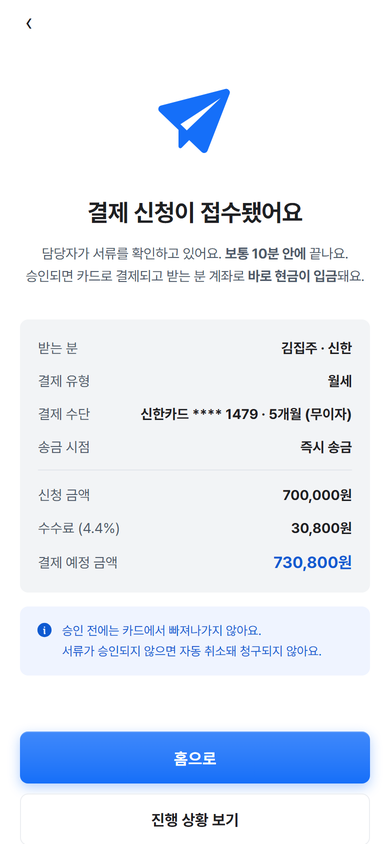
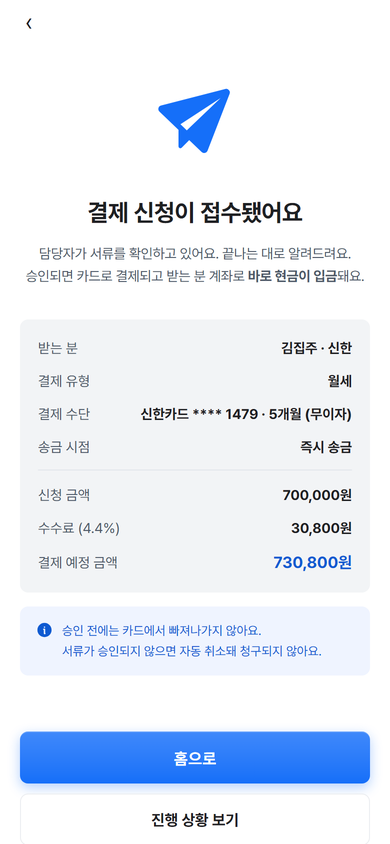
시간 표현 전체 검토 — 입금은 「평균 5~10분」으로 통일, 확정 안 된 「3분 · 10분 안에」 약속은 제거

Changed region(s): [[0.0923, 0.2773, 0.8923, 0.3081]]

diff --git a/화면/증빙.html b/화면/증빙.html
@@ -92,7 +92,7 @@
     <div class="done" id="완료">
       <div class="chk">✓</div>
       <b>신청이 접수됐어요</b>
-      <p>서류가 준비되면 문자와 메일로 보내드려요.<br>보통 10분 안에 도착합니다.</p>
+      <p>서류가 준비되면 문자와 메일로 보내드려요.<br>준비되는 대로 바로 보내드려요.</p>
       <button type="button" class="gobtn" onclick="history.length>1?history.back():location.href='../app.html'">확인</button>
     </div>
   </div>
@@ -102,7 +102,7 @@
 (function () {
   var 종류들 = {
     '세액공제': {
-      안내: '<h4>어떤 서류인가요</h4><p>연말정산 때 월세 세액공제를 받기 위한 <b>납입 증명서</b>예요. 랜선페이로 낸 월세가 기간별로 정리되어 나옵니다.</p><h4>누가 받을 수 있나요</h4><ol><li><span class="n">1</span><span>총급여 8,000만원 이하의 <b>무주택 세대주</b> (세입자 본인)</span></li><li><span class="n">2</span><span>전용면적 85㎡ 이하 또는 기준시가 4억원 이하 주택 거주</span></li><li><span class="n">3</span><span>계약서 주소와 주민등록상 주소가 같은 경우</span></li></ol><h4>이렇게 쓰세요</h4><ol><li><span class="n">1</span><span>발급 신청하면 보통 10분 안에 메일 · 문자로 도착해요</span></li><li><span class="n">2</span><span>회사 연말정산 서류로 내거나 홈택스에 첨부하면 끝</span></li><li><span class="n">3</span><span>총급여 5,500만원 이하 <b>17%</b> · 8,000만원 이하 <b>15%</b> 공제</span></li></ol><div class="warn"><b>유의사항</b><br>공제 요건과 한도는 세법 개정에 따라 달라질 수 있어요. 본인이 요건에 맞는지는 홈택스나 세무 전문가에게 확인하는 것이 정확합니다.</div>',
+      안내: '<h4>어떤 서류인가요</h4><p>연말정산 때 월세 세액공제를 받기 위한 <b>납입 증명서</b>예요. 랜선페이로 낸 월세가 기간별로 정리되어 나옵니다.</p><h4>누가 받을 수 있나요</h4><ol><li><span class="n">1</span><span>총급여 8,000만원 이하의 <b>무주택 세대주</b> (세입자 본인)</span></li><li><span class="n">2</span><span>전용면적 85㎡ 이하 또는 기준시가 4억원 이하 주택 거주</span></li><li><span class="n">3</span><span>계약서 주소와 주민등록상 주소가 같은 경우</span></li></ol><h4>이렇게 쓰세요</h4><ol><li><span class="n">1</span><span>발급 신청하면 준비되는 대로 메일 · 문자로 도착해요</span></li><li><span class="n">2</span><span>회사 연말정산 서류로 내거나 홈택스에 첨부하면 끝</span></li><li><span class="n">3</span><span>총급여 5,500만원 이하 <b>17%</b> · 8,000만원 이하 <b>15%</b> 공제</span></li></ol><div class="warn"><b>유의사항</b><br>공제 요건과 한도는 세법 개정에 따라 달라질 수 있어요. 본인이 요건에 맞는지는 홈택스나 세무 전문가에게 확인하는 것이 정확합니다.</div>',
       제목: '월세 세액공제 증빙 발급',
       설명: '<span class="who">직장인 · 세입자용</span>연말정산 <b>월세 세액공제</b>에 쓰는 서류예요. 회사나 홈택스에 그대로 제출하면 총급여에 따라 월세의 최대 17%를 돌려받습니다.<span class="get">받는 서류 — 월세 납입 증명서 (PDF)</span>',
       칸: [
@@ -112,7 +112,7 @@
       ]
     },
     '입금확인서': {
-      안내: '<h4>어떤 서류인가요</h4><p>랜선페이가 <b>받는 분 계좌로 입금을 완료했다는 확인서</b>예요. 입금일 · 금액 · 받는 분 정보가 표기됩니다.</p><h4>이런 때 쓰세요</h4><ol><li><span class="n">1</span><span>집주인이 <b>입금 확인</b>을 요청할 때</span></li><li><span class="n">2</span><span>거래처에 <b>지급 증빙</b>을 보내야 할 때</span></li><li><span class="n">3</span><span>분쟁에 대비해 기록을 남겨두고 싶을 때</span></li></ol><h4>이렇게 발급돼요</h4><ol><li><span class="n">1</span><span>대상 내역을 고르고 신청하면 보통 10분 안에 도착해요</span></li><li><span class="n">2</span><span>메일 또는 문자로 PDF 파일을 받아요</span></li></ol><div class="warn"><b>유의사항</b><br>입금 사실을 증명하는 서류이고 세금 증빙(세금계산서 · 현금영수증)을 대신하지는 않아요. 세금 처리용은 다른 탭을 이용하세요.</div>',
+      안내: '<h4>어떤 서류인가요</h4><p>랜선페이가 <b>받는 분 계좌로 입금을 완료했다는 확인서</b>예요. 입금일 · 금액 · 받는 분 정보가 표기됩니다.</p><h4>이런 때 쓰세요</h4><ol><li><span class="n">1</span><span>집주인이 <b>입금 확인</b>을 요청할 때</span></li><li><span class="n">2</span><span>거래처에 <b>지급 증빙</b>을 보내야 할 때</span></li><li><span class="n">3</span><span>분쟁에 대비해 기록을 남겨두고 싶을 때</span></li></ol><h4>이렇게 발급돼요</h4><ol><li><span class="n">1</span><span>대상 내역을 고르고 신청하면 준비되는 대로 도착해요</span></li><li><span class="n">2</span><span>메일 또는 문자로 PDF 파일을 받아요</span></li></ol><div class="warn"><b>유의사항</b><br>입금 사실을 증명하는 서류이고 세금 증빙(세금계산서 · 현금영수증)을 대신하지는 않아요. 세금 처리용은 다른 탭을 이용하세요.</div>',
       제목: '무통장 입금 확인서 발급',
       설명: '<span class="who">모든 회원용</span>송금이 <b>받는 분 계좌에 입금됐다는 확인서</b>예요. 집주인 · 거래처에 입금 증빙이 필요할 때 쓰면 됩니다.<span class="get">받는 서류 — 무통장 입금 확인서 (PDF)</span>',
       칸: [

diff --git a/index.html b/index.html
@@ -1610,7 +1610,7 @@
           </li>
           <li class="tstep" data-shot="img/guide_shots/reg4.png?v=1" role="button" tabindex="0">
             <span class="tno">2</span>
-            <div class="tbd"><h3>서류 검토</h3><p>임대차계약서 같은 증빙 서류를 올리면 <br>연중무휴로 검토해 보통 10분 안에 알려드려요</p></div>
+            <div class="tbd"><h3>서류 검토</h3><p>임대차계약서 같은 증빙 서류를 올리면 <br>연중무휴로 검토해 결과를 바로 알려드려요</p></div>
           </li>
           <li class="tstep" data-shot="img/guide_shots/reg3.png?v=1" role="button" tabindex="0">
             <span class="tno">3</span>
@@ -1618,7 +1618,7 @@
           </li>
           <li class="tstep" data-shot="img/guide_shots/done.png?v=1" role="button" tabindex="0">
             <span class="tno">4</span>
-            <div class="tbd"><h3>송금 확인</h3><p>결제가 확인되면 평균 5분 안에 입금되고 <br>내역은 마이페이지에서 바로 볼 수 있어요</p></div>
+            <div class="tbd"><h3>송금 확인</h3><p>결제가 확인되면 평균 5~10분 안에 입금되고 <br>내역은 마이페이지에서 바로 볼 수 있어요</p></div>
           </li>
         </ol>
       </div>
@@ -1743,7 +1743,7 @@
           <p class="d">결제 대금은 <b>지정 계좌로만</b> 송금됩니다<br>대출이 아닌 <b>정식 결제 서비스</b>예요</p>
         </div>
         <img class="simg" src="img/status3d-blue.png?v=1"
-          alt="결제 현황 — 누적 이용자 42,000명+ · 총 송금 건수 16,800건+ · 평균 입금 시간 5분 · 정식 PG">
+          alt="결제 현황 — 누적 이용자 42,000명+ · 총 송금 건수 16,800건+ · 평균 입금 시간 5~10분 · 정식 PG">
       </div>
 
       <div class="srows">

diff --git a/화면/안내.html b/화면/안내.html
@@ -461,11 +461,11 @@
             <h3>송금 완료</h3>
           </div>
             <ol class="oa">
-              <li>접수되면 <b>연중무휴 검토</b>가 시작되고 보통 10분 안에 결과를 알려드려요</li>
+              <li>접수되면 <b>연중무휴 검토</b>가 시작되고 끝나는 대로 결과를 알려드려요</li>
             </ol>
           <div class="phone pa shot"><img class="mk-shot" src="../img/guide_shots/done.png" alt=""></div>
             <ol class="ob" style="counter-reset:s 1">
-              <li>승인되면 카드로 결제되고 <b>평균 5분 안에</b> 받는 분 계좌로 현금이 입금돼요</li>
+              <li>승인되면 카드로 결제되고 <b>평균 5~10분 안에</b> 받는 분 계좌로 현금이 입금돼요</li>
               <li>진행 상태는 <b>전체메뉴 → 결제 내역</b>에서 언제든 확인할 수 있어요</li>
             </ol>
           <div class="phone pb">
@@ -496,7 +496,7 @@
 
     <div class="gofin">
       <b>이제 직접 결제해볼까요?</b>
-      <p>카드 한 장이면 3분 안에 끝나요</p>
+      <p>카드 한 장이면 바로 끝나요</p>
     </div>
     <a class="gocta" href="10_1_유형선택.html"><img src="../img/logo3-white.png" alt="">지금 시작하기</a>
   </div>

diff --git a/화면/질문.html b/화면/질문.html
@@ -92,7 +92,7 @@
       <div class="gh">송금 안내</div>
       <div class="acc">
         <details data-cat="송금"><summary><span class="q">Q.</span><span class="t">송금은 얼마나 걸리나요?</span><iconify-icon class="arw" icon="mingcute:down-line"></iconify-icon></summary>
-          <div class="a">서류 승인 후 결제하면 <b>평균 5분</b> 안에 입금됩니다. 예약 송금을 걸어 두면 정한 날짜에 자동으로 나갑니다.</div></details>
+          <div class="a">서류 승인 후 결제하면 <b>평균 5~10분</b> 안에 입금됩니다. 예약 송금을 걸어 두면 정한 날짜에 자동으로 나갑니다.</div></details>
         <details data-cat="송금"><summary><span class="q">Q.</span><span class="t">받는 분 동의가 필요한가요?</span><iconify-icon class="arw" icon="mingcute:down-line"></iconify-icon></summary>
           <div class="a">필요 없습니다. 받는 분에게는 <b>평범한 계좌 입금</b>으로 보입니다. 송금자명도 원하는 이름으로 바꿀 수 있어요.</div></details>
       </div>

diff --git a/faq.html b/faq.html
@@ -109,7 +109,7 @@
         <h2 class="fgt">송금 안내</h2>
         <div class="acc">
           <details><summary><span class="q">Q.</span><span class="t">송금은 얼마나 걸리나요?</span><iconify-icon class="arw" icon="mingcute:down-line"></iconify-icon></summary>
-            <div class="a">서류 승인 후 결제하면 <b>평균 5분</b> 안에 입금됩니다. 예약 송금을 걸어 두면 정한 날짜에 자동으로 나갑니다.</div></details>
+            <div class="a">서류 승인 후 결제하면 <b>평균 5~10분</b> 안에 입금됩니다. 예약 송금을 걸어 두면 정한 날짜에 자동으로 나갑니다.</div></details>
           <details><summary><span class="q">Q.</span><span class="t">받는 분 동의가 필요한가요?</span><iconify-icon class="arw" icon="mingcute:down-line"></iconify-icon></summary>
             <div class="a">필요 없습니다. 받는 분에게는 <b>평범한 계좌 입금</b>으로 보입니다. 송금자명도 원하는 이름으로 바꿀 수 있어요.</div></details>
         </div>

diff --git a/guide.html b/guide.html
@@ -561,11 +561,11 @@
             <h3>송금 완료</h3>
           </div>
             <ol class="oa">
-              <li>접수되면 <b>연중무휴 검토</b>가 시작되고 보통 10분 안에 결과를 알려드려요</li>
+              <li>접수되면 <b>연중무휴 검토</b>가 시작되고 끝나는 대로 결과를 알려드려요</li>
             </ol>
           <div class="phone pa shot"><img class="mk-shot" src="img/guide_shots/done.png" alt=""></div>
             <ol class="ob" style="counter-reset:s 1">
-              <li>승인되면 카드로 결제되고 <b>평균 5분 안에</b> 받는 분 계좌로 현금이 입금돼요</li>
+              <li>승인되면 카드로 결제되고 <b>평균 5~10분 안에</b> 받는 분 계좌로 현금이 입금돼요</li>
               <li>진행 상태는 <b>전체메뉴 → 결제 내역</b>에서 언제든 확인할 수 있어요</li>
             </ol>
           <div class="phone pb">

diff --git a/about.html b/about.html
@@ -466,7 +466,7 @@
             <span class="pcard-ic"><svg viewBox="0 0 24 24" aria-hidden="true"><defs><linearGradient id="pi1" x1="0" y1="0" x2="1" y2="1"><stop offset="0" stop-color="#B9D2FB"/><stop offset="1" stop-color="#6E9BE0"/></linearGradient></defs><path fill="url(#pi1)" fill-rule="evenodd" clip-rule="evenodd" d="M13.232 1.36c.632-.758 1.863-.24 1.763.742L14.289 9H20a1 1 0 0 1 .768 1.64l-10 12c-.632.759-1.863.24-1.763-.741L9.711 15H4a1 1 0 0 1-.768-1.64z"/></svg></span>
             <b>속도가 곧 신뢰</b>
           </div>
-          <p>서류 검토부터 입금까지 불필요한 단계를 모두 없애 <b>평균 5분</b> 안에 끝냅니다.</p>
+          <p>서류 검토부터 입금까지 불필요한 단계를 모두 없애 <b>평균 5~10분</b> 안에 끝냅니다.</p>
         </div>
         <div class="pcard">
           <div class="pcard-in">

diff --git a/화면/회사소개.html b/화면/회사소개.html
@@ -238,7 +238,7 @@
           검토부터 입금까지 군더더기를 없앴습니다.
           전자금융거래법에 따라 등록된 PG 로서 모든 거래를 증빙 위에서 처리하며 <b>안전을 기본값</b>으로 삼습니다.</p>
         <p>그렇게 지금까지 <b>4만 2천여 명</b>이 랜선페이와 함께 <b>128억 원</b>을 주고받았습니다.
-          결제부터 입금까지는 <b>평균 5분</b>이면 충분합니다.</p>
+          결제부터 입금까지는 <b>평균 5~10분</b>이면 충분합니다.</p>
       </div>
       <div class="astats">
         <div class="ast"><b><span class="countup">100</span>만<i>명+</i></b><span>누적 이용자</span></div>

diff --git a/화면/14_완료.html b/화면/14_완료.html
@@ -97,7 +97,7 @@ body{display:block !important; padding:0 !important; background:#EDF0F4 !importa
   <div class="body">
     <div class="chk"><iconify-icon icon="mingcute:send-plane-fill"></iconify-icon></div>
     <h1>결제 신청이 접수됐어요</h1>
-    <p class="lead">담당자가 서류를 확인하고 있어요. <b>보통 10분 안에</b> 끝나요.<br>
+    <p class="lead">담당자가 서류를 확인하고 있어요. 끝나는 대로 알려드려요.<br>
       승인되면 카드로 결제되고 받는 분 계좌로 <b>바로 현금이 입금</b>돼요.</p>
 
     <div class="receipt">

diff --git a/화면/등록4_서류.html b/화면/등록4_서류.html
@@ -135,7 +135,7 @@
       <div class="sr"><span>결제</span><em id="요약결제">-</em></div>
       <div class="sr"><span>송금 시점</span><em id="요약시점">-</em></div>
     </div>
-    <div class="hint">등록하면 연중무휴로 검토가 시작되고 보통 10분 안에 결과를 알려드려요.</div>
+    <div class="hint">등록하면 연중무휴로 검토가 시작되고 끝나는 대로 결과를 알려드려요.</div>
     <div class="hint err" id="오류" style="display:none"></div>
 
     <div class="navs">

diff --git a/pay.html b/pay.html
@@ -118,7 +118,7 @@
         </a>
         <a class="row" href="guide.html">
           
-          <span class="tx"><b>이용 방법 4단계</b><span>신청 3분 · 입금 평균 5분</span></span>
+          <span class="tx"><b>이용 방법 4단계</b><span>간편 신청 · 입금 평균 5~10분</span></span>
           <iconify-icon class="gv" icon="mingcute:right-line"></iconify-icon>
         </a>
       </div>
